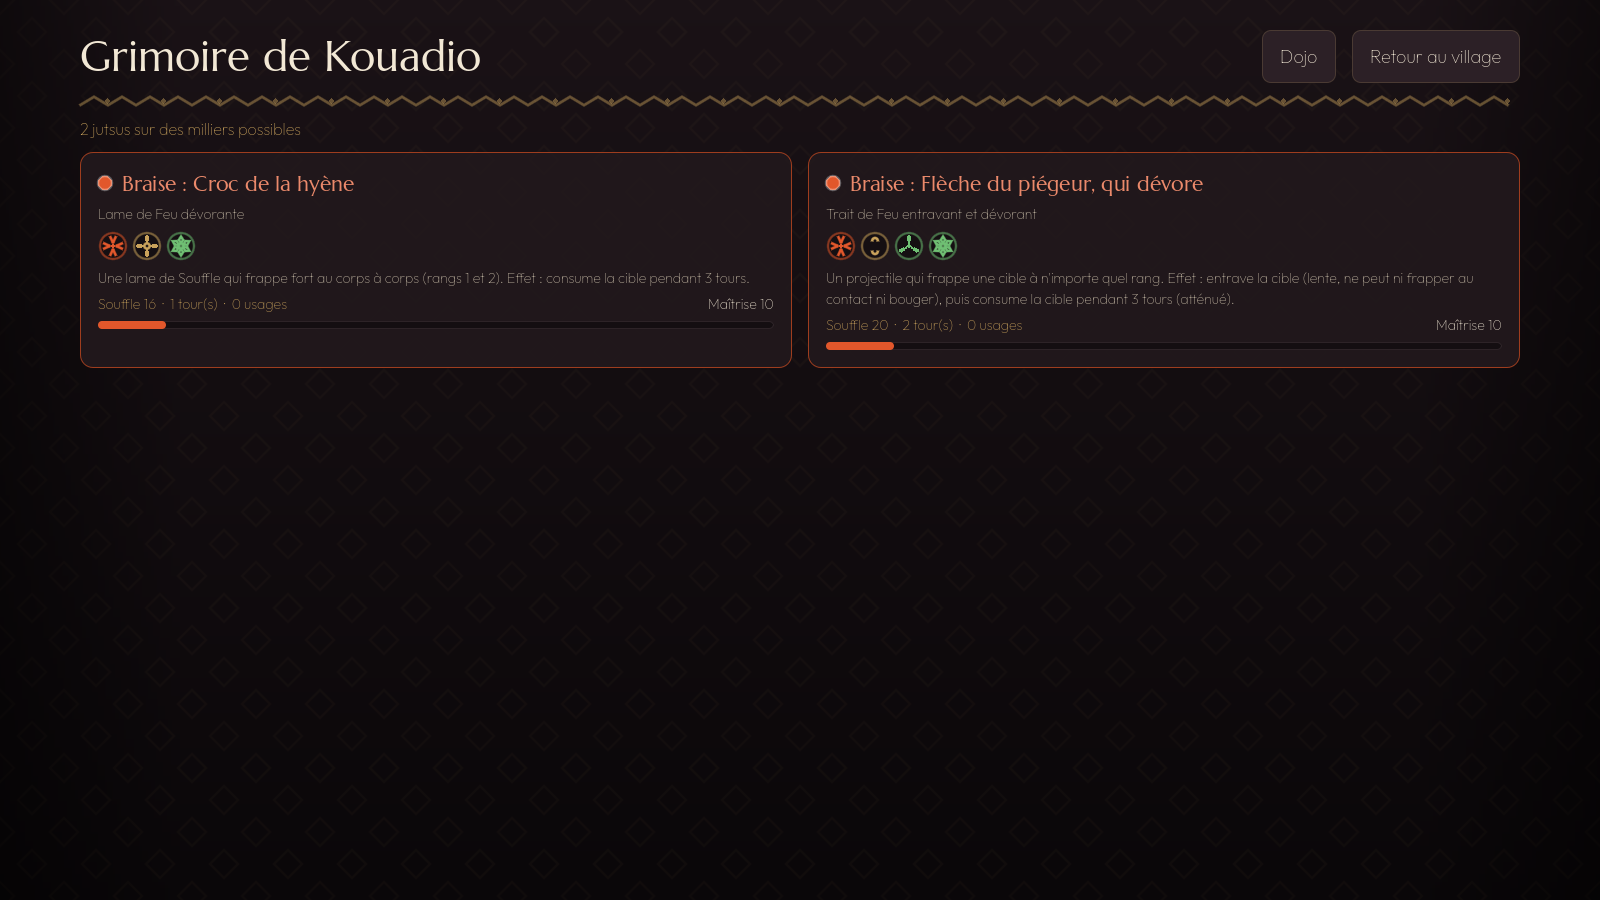
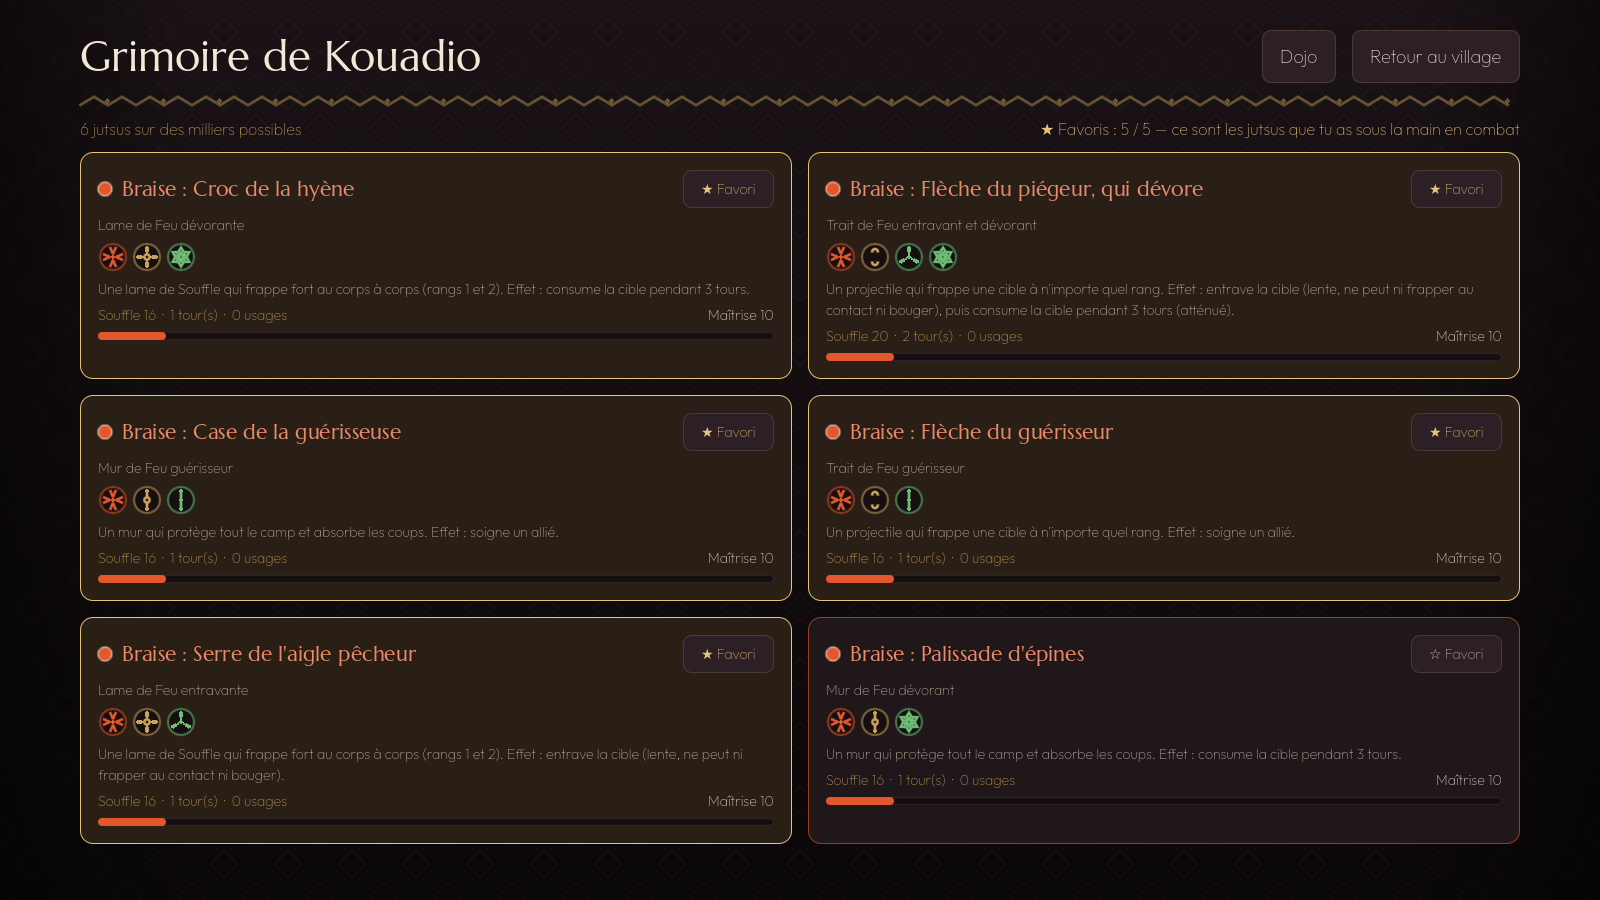
Jutsus favoris : cinq au maximum, sous la main en combat
- Chaque ninja choisit au plus 5 jutsus favoris ; en combat, l'onglet
  « Mes favoris » ne montre qu'eux (le composeur de mudras reste libre).
- Les cinq premières découvertes deviennent favorites d'office ; les
  anciennes sauvegardes reçoivent leurs cinq premiers jutsus.
- Grimoire : étoile sur chaque jutsu, compteur, favoris en tête. Dojo :
  bouton pour ajouter ou retirer le jutsu découvert.
- Route POST /api/ninja/favori ; mêmes règles et tests en Go et en GDScript.

Claude-Session: https://claude.ai/code/session_018xjsrULp8mr7dHKoDzFok2

diff --git a/server/internal/game/favoris.go b/server/internal/game/favoris.go
@@ -1,0 +1,88 @@
+package game
+
+import (
+	"errors"
+	"sort"
+)
+
+// FavorisMax : nombre de jutsus favoris, ceux qu'on a sous la main en combat.
+const FavorisMax = 5
+
+// Erreurs des favoris.
+var (
+	ErrJutsuInconnu  = errors.New("ce jutsu n'est pas dans votre grimoire")
+	ErrFavorisPleins = errors.New("5 jutsus favoris au maximum : retirez-en un d'abord")
+)
+
+// EstFavori indique si un jutsu fait partie des favoris.
+func (n *Ninja) EstFavori(cle string) bool {
+	for _, f := range n.Favoris {
+		if f == cle {
+			return true
+		}
+	}
+	return false
+}
+
+// ChoisirFavori ajoute ou retire un jutsu des favoris.
+func (n *Ninja) ChoisirFavori(cle string, favori bool) error {
+	if n.Grimoire[cle] == nil {
+		return ErrJutsuInconnu
+	}
+	if !favori {
+		reste := []string{}
+		for _, f := range n.Favoris {
+			if f != cle {
+				reste = append(reste, f)
+			}
+		}
+		n.Favoris = reste
+		return nil
+	}
+	if n.EstFavori(cle) {
+		return nil
+	}
+	if len(n.Favoris) >= FavorisMax {
+		return ErrFavorisPleins
+	}
+	n.Favoris = append(n.Favoris, cle)
+	return nil
+}
+
+// initialiserFavoris : les sauvegardes d'avant les favoris reçoivent les
+// premiers jutsus découverts ; les favoris disparus du grimoire sont retirés.
+func (n *Ninja) initialiserFavoris() {
+	if n.Favoris == nil {
+		connus := make([]*JutsuConnu, 0, len(n.Grimoire))
+		for _, k := range n.Grimoire {
+			connus = append(connus, k)
+		}
+		sort.Slice(connus, func(i, j int) bool { return connus[i].Decouvert.Before(connus[j].Decouvert) })
+		n.Favoris = []string{}
+		for _, k := range connus {
+			if len(n.Favoris) < FavorisMax {
+				n.Favoris = append(n.Favoris, k.Cle)
+			}
+		}
+	}
+	gardes := []string{}
+	for _, f := range n.Favoris {
+		if n.Grimoire[f] != nil {
+			gardes = append(gardes, f)
+		}
+	}
+	n.Favoris = gardes
+}
+
+// Favori ajoute ou retire un jutsu des favoris.
+func (p *Partie) Favori(cle string, favori bool) (*NinjaVue, error) {
+	p.mu.Lock()
+	defer p.mu.Unlock()
+	if p.Ninja == nil {
+		return nil, ErrPasDeNinja
+	}
+	if err := p.Ninja.ChoisirFavori(cle, favori); err != nil {
+		return nil, err
+	}
+	return p.vueNinja(), p.sauver()
+}

diff --git a/server/internal/game/game_test.go b/server/internal/game/game_test.go
@@ -196,3 +196,43 @@ func TestCarteNiveauxReposEtDefis(t *testing.T) {
 		t.Errorf("défi : %v %+v", err, res)
 	}
 }
+
+func TestFavoris(t *testing.T) {
+	p := nouvellePartie(t)
+	suites := [][]string{
+		{"lamantin", "martin_pecheur", "liane"}, {"lamantin", "martin_pecheur", "kola"},
+		{"lamantin", "martin_pecheur", "braise"}, {"lamantin", "mante", "liane"},
+		{"lamantin", "mante", "braise"}, {"lamantin", "tortue", "kola"},
+	}
+	for _, s := range suites {
+		if _, err := p.Dojo(s); err != nil {
+			t.Fatal(err)
+		}
+	}
+	n := p.Ninja
+	if len(n.Favoris) != FavorisMax || n.EstFavori("lamantin>tortue>kola") {
+		t.Fatalf("les cinq premières découvertes sont favorites : %v", n.Favoris)
+	}
+	if _, err := p.Favori("lamantin>tortue>kola", true); err != ErrFavorisPleins {
+		t.Errorf("pas plus de cinq favoris : %v", err)
+	}
+	if _, err := p.Favori("lamantin>martin_pecheur>liane", false); err != nil {
+		t.Fatal(err)
+	}
+	v, err := p.Favori("lamantin>tortue>kola", true)
+	if err != nil || !n.EstFavori("lamantin>tortue>kola") || len(n.Favoris) != FavorisMax {
+		t.Errorf("échange de favori : %v %v", err, n.Favoris)
+	}
+	nb := 0
+	for _, j := range v.Jutsus {
+		if j.Favori {
+			nb++
+		}
+	}
+	if nb != FavorisMax {
+		t.Errorf("la vue marque %d favoris", nb)
+	}
+	if _, err := p.Favori("panthere>mante>braise", true); err != ErrJutsuInconnu {
+		t.Errorf("un jutsu inconnu ne peut pas être favori : %v", err)
+	}
+}

diff --git a/server/internal/game/ninja.go b/server/internal/game/ninja.go
@@ -51,6 +51,7 @@ type Ninja struct {
 	Elements         []string               `json:"elements"`
 	ElementsAChoisir int                    `json:"elements_a_choisir"`
 	Grimoire         map[string]*JutsuConnu `json:"grimoire"`
+	Favoris          []string               `json:"favoris"` // au plus 5 clés de jutsus
 	Dje              int                    `json:"dje"`
 	Arme             combat.Arme            `json:"arme"`
 	Victoires        int                    `json:"victoires"`
@@ -93,6 +94,7 @@ func NouveauNinja(nom, region, typeVillage string) (*Ninja, error) {
 		Fangan:  AttributDepart, Gnanga: AttributDepart, Manhis: AttributDepart,
 		Elements: []string{r.Element},
 		Grimoire: map[string]*JutsuConnu{},
+		Favoris:  []string{},
 		Dje:      50,
 		Arme:     combat.Arme{Nom: "un sabre court", Puissance: 6 + tv.BonusArme},
 		Creation: time.Now(),
@@ -229,6 +231,10 @@ func (n *Ninja) Apprendre(j *grammar.Jutsu, maitrise int) bool {
 	if j.Legendaire != "" {
 		// Chaque légendaire connu ouvre un élément de plus.
 		n.ElementsAChoisir++
+	}
+	// Les premières découvertes deviennent favorites, jusqu'à cinq.
+	if len(n.Favoris) < FavorisMax {
+		n.Favoris = append(n.Favoris, j.Cle)
 	}
 	return true
 }

diff --git a/server/internal/game/partie.go b/server/internal/game/partie.go
@@ -59,6 +59,7 @@ func Charger(chemin string) (*Partie, error) {
 			n.Grimoire = map[string]*JutsuConnu{}
 		}
 		n.initialiserCarte(time.Now())
+		n.initialiserFavoris()
 		// Les noms des jutsus peuvent évoluer d'une version à l'autre.
 		for _, k := range n.Grimoire {
 			if j, e := grammar.Analyser(k.Sequence); e == nil {
@@ -105,6 +106,7 @@ type JutsuVue struct {
 	Tours      int      `json:"tours"`
 	Maitrise   int      `json:"maitrise"`
 	Usages     int      `json:"usages"`
+	Favori     bool     `json:"favori"`
 }
 
 // NinjaVue : le ninja et ses valeurs calculées.
@@ -132,7 +134,7 @@ func (p *Partie) vueJutsu(j *grammar.Jutsu) JutsuVue {
 		Cle: j.Cle, Nom: j.Nom, Nature: j.Nature, Sequence: j.Sequence, Element: j.Element, Forme: j.Forme,
 		Soutien: j.Soutien, Legendaire: j.Legendaire != "", Texte: j.Texte,
 		Cout: combat.CoutReel(j, m), Tours: (j.Longueur() + mpt - 1) / mpt,
-		Maitrise: m, Usages: usages,
+		Maitrise: m, Usages: usages, Favori: p.Ninja.EstFavori(j.Cle),
 	}
 }
 

diff --git a/server/cmd/exporter-regles/main.go b/server/cmd/exporter-regles/main.go
@@ -80,7 +80,7 @@ func regles() map[string]any {
 			"maitrise_max": game.MaitriseMax, "maitrise_decouverte": combat.MaitriseDecouverte,
 			"maitrise_pnj": combat.MaitrisePNJ, "tour_max": combat.TourMax,
 			"niveau_fusion": data.NiveauFusion, "nb_rangs": combat.NbRangs,
-			"endurance_max": game.EnduranceMax, "regen_secondes": game.RegenSecondes,
+			"favoris_max": game.FavorisMax, "endurance_max": game.EnduranceMax, "regen_secondes": game.RegenSecondes,
 			"chance_rencontre": game.ChanceRencontre, "rayon_vision": game.RayonVision,
 		},
 	}

diff --git a/server/internal/api/api.go b/server/internal/api/api.go
@@ -95,6 +95,15 @@ func Nouveau(p *game.Partie) *Serveur {
 			repondre(w)(p.ChoisirElement(req.Element))
 		}
 	})
+	s.mux.HandleFunc("POST /api/ninja/favori", func(w http.ResponseWriter, r *http.Request) {
+		var req struct {
+			Cle    string
+			Favori bool
+		}
+		if lire(w, r, &req) {
+			repondre(w)(p.Favori(req.Cle, req.Favori))
+		}
+	})
 	s.mux.HandleFunc("POST /api/dojo", func(w http.ResponseWriter, r *http.Request) {
 		var req struct{ Sequence []string }
 		if lire(w, r, &req) {

diff --git a/README.md b/README.md
@@ -26,7 +26,7 @@ Le jeu tourne entièrement sur le PC. `NinjaIvoire.exe` est l'exécutable offici
 | Village | Fiche du ninja, aperçu de la carte explorée, heure réelle et phase de la lune, choix d'élément |
 | Carte | La Côte d'Ivoire en 1 352 cases : 9 terrains, 7 régions, 56 zones à niveau, 21 villages, 46 villes, lieux mythiques, portails ; déplacement case par case, endurance, brouillard, rencontres |
 | Dojo | Composer jusqu'à 8 mudras, libérer le Souffle, découvrir un jutsu ou écouter la résonance |
-| Grimoire | Jutsus découverts, pour toujours, avec leur maîtrise |
+| Grimoire | Jutsus découverts, pour toujours, avec leur maîtrise ; jusqu'à 5 favoris (★) pour le combat |
 | Combat | Tours simultanés, trois rangs, incantation sur plusieurs tours, interruption, IA qui lit la situation |
 
 Les jutsus portent des noms poétiques (« Braise : Croc de la hyène », « Lagune : Toile d'Ananzè, qui dévore — sans fin »), avec leur nature en dessous (« Lame de Feu dévorante »).

diff --git a/docs/GDD.md b/docs/GDD.md
@@ -50,6 +50,7 @@
 3. **Interactions élémentaires :** voir la table des forces et faiblesses (§4). Certaines combinaisons entre coéquipiers créent des **jutsus combinés**.
 4. **Positions :** avant, milieu et arrière. La portée des jutsus et les rôles d'équipe en dépendent.
 5. **Loadout :** on emporte un nombre limité de jutsus, d'outils et de parchemins.
+   - **Jutsus favoris (Décidé) :** chaque ninja choisit **au maximum 5 jutsus favoris** dans son grimoire. Ce sont eux qu'il a sous la main en combat, sans fouiller dans tout ce qu'il maîtrise. Les 5 premiers jutsus découverts deviennent favoris d'office ; on les change à tout moment depuis le grimoire (★) ou le dojo. Le composeur de mudras reste disponible en combat pour tenter une suite nouvelle.
 6. **Le Souffle et la fatigue :** une ressource à gérer pendant le combat et d'une mission à l'autre.
 
 ## 3. Mudras et jutsus
